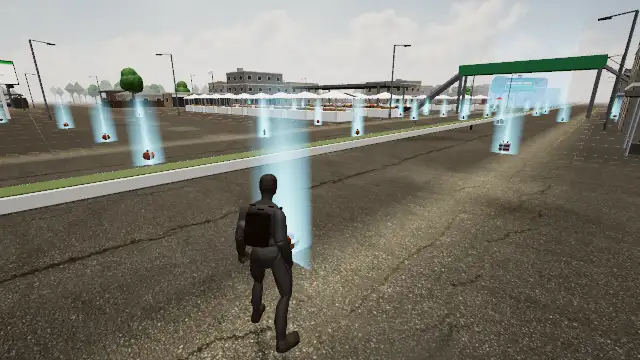
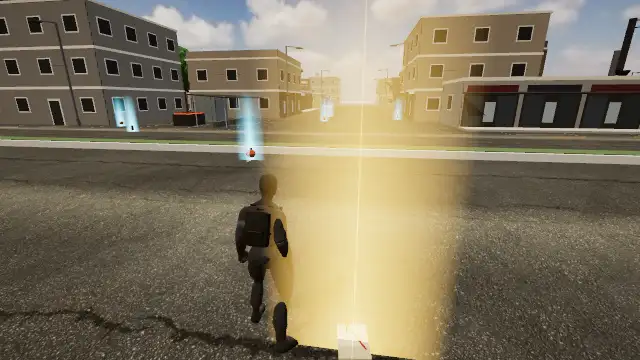
EMILGO Games v5 (3.8): every How to Play picture, the places' pictures and the link card re-shot from the game as it is now

diff --git a/games/emilgo-games/SPEC-V5.md b/games/emilgo-games/SPEC-V5.md
@@ -54,7 +54,7 @@ The owner left the questions below to my recommendations: health bars only while
 | 3.5 | **Body and face**: thicker thighs and legs, a real face opening, the fully closed mask as a choice, more suits | Done. Fuller thighs (+22% at the top, more in front) and calves (a bulge behind), shaped on load so every level and clip has them. The face is open round the eyes and a new nose, in the fabric's shadow at the edge; **Closed mask** (the eyes alone) is a choice in Customize, Suit, seen by everyone online. Five new colours (Olive drab, Coyote, Gunmetal, Arctic, Crimson) and four designs (Woodland camo, Ballistic plates, Hex weave from Pro II, Multi-terrain from Legendary III). The pale patch at the front of the hips is gone (the mannequin's hip piece is now suit). Also fixed: the mask's knit had crept onto the skin in 3.2 |
 | 3.6 | **Voice**: a voice giving orders, "player X is eliminated" | Done (not yet heard on a phone). An announcer: the mode's order as play starts ("Capture the flag and hold position. Do not reveal your location."), the zone closing and the final circle, outside the zone, two minutes and thirty seconds left, treasures found, all five, uploads (yours, an enemy's), the flag taken, supply drops, the Map Print and Titan Serum, "<name> is eliminated", victory and defeat. Spoken by the phone's own voice, a Mandarin woman's reading the English where the phone has one (Tingting on an iPhone or Mac, the Google Chinese voice on Android), the music dipping under it; a switch in Settings, Audio. **Recorded lines** (a fixed voice on every phone) need a speech model run on the owner's computer: the sandbox here refused to run a downloaded one. Drop `<id>.mp3` files and an `index.json` of their ids in `public/voice/` and the game uses them (the ids and words: `src/audio/voice.ts`) |
 | 3.7 | **Realism pass**: low-poly things replaced with CC0 scans, the two missing places (Glass District, Frostline), Max tuned, phones kept fast | Done, in part. The forests' spruces have jagged, drooping boughs instead of stacked cones (Medium and up; Low keeps the light cones); on High and Max their crowns get clumps of needles, dark gaps and lit tips from a shader (it cost Medium a quarter of its frame rate on a slowed phone, so Medium is spared); the treasure boxes are the scanned metal chest from the CC0 model library on Medium and up. The two places were done earlier. Not done: the remaining drawn props (the items on the ground, the drawn crates) still need CC0 scans downloaded and built (`tools/assets/pipeline.mjs`) |
-| 3.8 | **Tutorial** with real pictures of the game | Must be shot after 3.1, 3.3 and 3.7, or it shows the old game |
+| 3.8 | **Tutorial** with real pictures of the game | Done. Every How to Play picture re-shot from the game as it is now (`dev/howto-shots.mjs`), Treasure Hunt's new one with the upload machine, the basics' text with one-thumb portrait, Titan Serum and the Map Print |
 | 3.9 | **App icon and name** | Needs the avatar image the owner will send |
 
 ## The owner's second list (6 Nov 2026)
